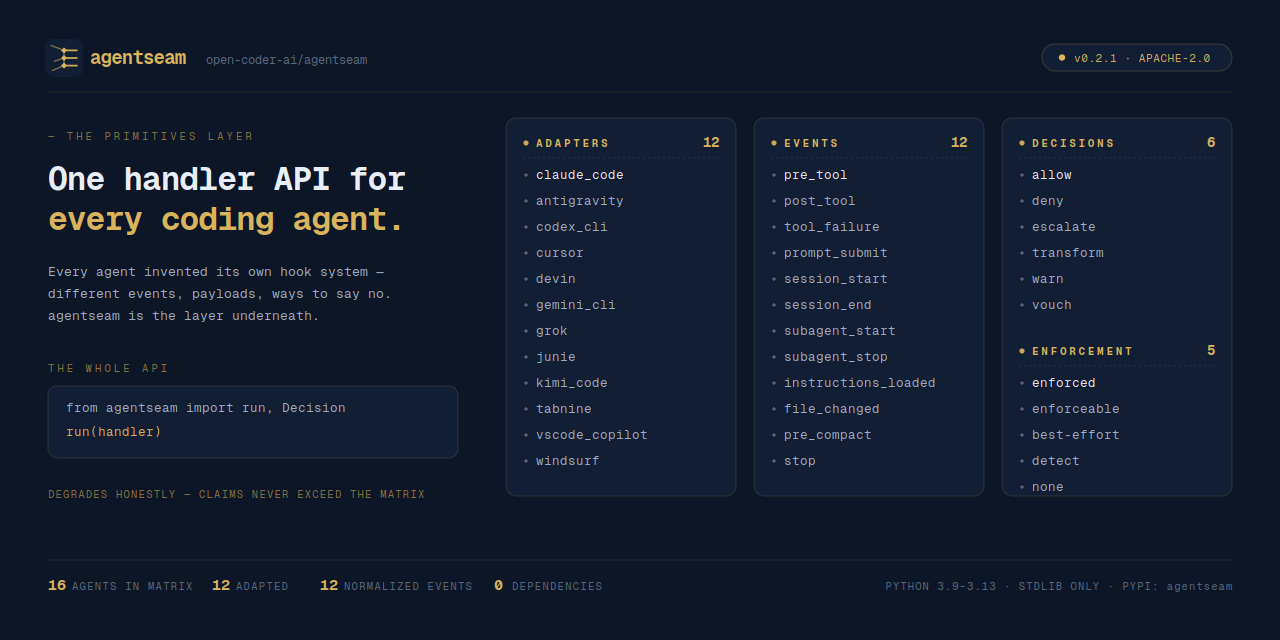
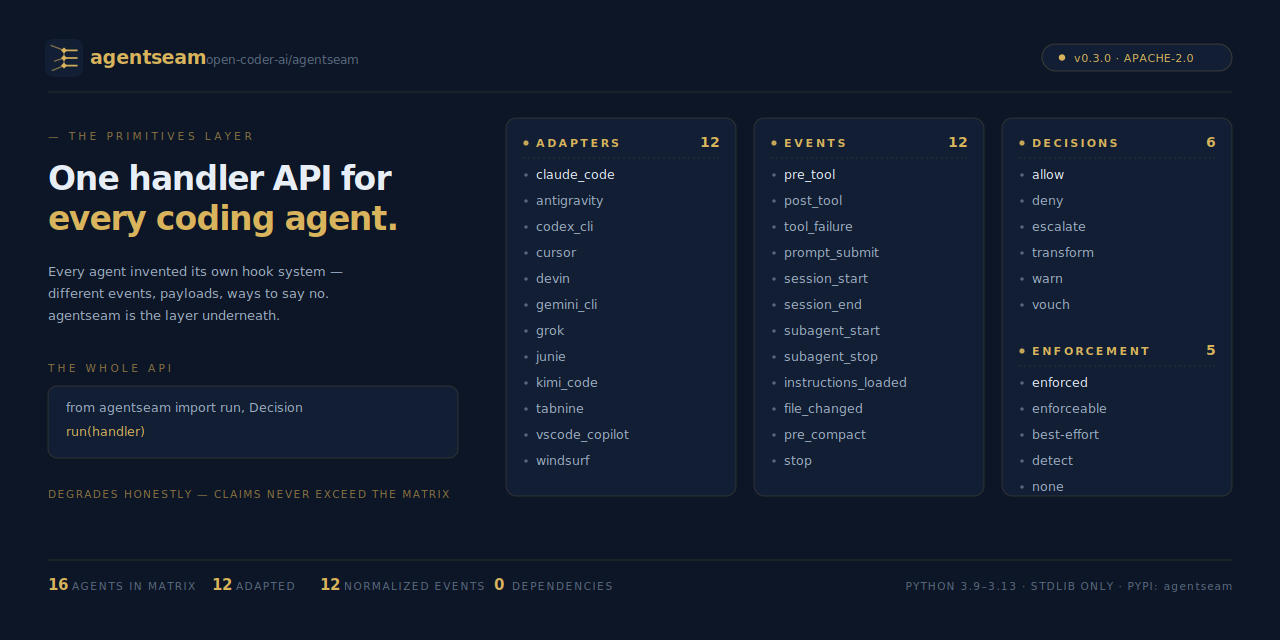
Release 0.3.0
Everything under [Unreleased] since v0.2.1, rolled into a dated section: the witnessed
claude_code prompt_submit and stop cells at 2.1.263, the recorded driver that freezes a
witnessed run and replays it in CI, per-claim evidence on the capability matrix with
grading capped by basis, the escalate trial, the Cursor, Kimi Code, Devin and Grok adapter
fixes, and the README, demo-gif and quickstart CI work. New package modules and new
package data, so a minor bump under semver.

Version is declared in three places and all three move together: pyproject.toml,
src/agentseam/__init__.py, and CITATION.cff, which tests/test_repo_standards.py holds
equal to the package. The changelog's compare links had stopped at 0.1.1; the 0.2.0,
0.2.1 and 0.3.0 links are added and [Unreleased] now compares against v0.3.0.

docs/assets/social-preview.{svg,png} are regenerated, not edited: the card renders the
version, and the brand-assets check would have failed on the stale one.

No behaviour change in this commit. The tag that publishes it follows the merge.

diff --git a/src/agentseam/__init__.py b/src/agentseam/__init__.py
@@ -1,6 +1,6 @@
 """agentseam — the primitives layer for every coding agent."""
 
-__version__ = "0.2.1"
+__version__ = "0.3.0"
 
 from . import adapters, bundler, instructions, packaging, permissions
 from .contract import (

diff --git a/CHANGELOG.md b/CHANGELOG.md
@@ -6,6 +6,8 @@ versioning: [Semantic Versioning](https://semver.org/spec/v2.0.0.html).
 
 ## [Unreleased]
 
+## [0.3.0] - 2026-09-20
+
 ### Docs
 - **README rewritten to lead with the hero demo GIF and the honest capability matrix**,
   ahead of the pitch copy. Adds a hero GIF (`docs/assets/demo.tape`, rendered by the new
@@ -1601,6 +1603,9 @@ versioning: [Semantic Versioning](https://semver.org/spec/v2.0.0.html).
   surfaces read content bytes (see above). A consumer needing content-based denial today
   should use a hook (`agentseam.install`/`dispatch`), not `permissions.plan()`.
 
-[Unreleased]: https://github.com/open-coder-ai/agentseam/compare/v0.1.1...HEAD
+[Unreleased]: https://github.com/open-coder-ai/agentseam/compare/v0.3.0...HEAD
+[0.3.0]: https://github.com/open-coder-ai/agentseam/compare/v0.2.1...v0.3.0
+[0.2.1]: https://github.com/open-coder-ai/agentseam/compare/v0.2.0...v0.2.1
+[0.2.0]: https://github.com/open-coder-ai/agentseam/compare/v0.1.1...v0.2.0
 [0.1.1]: https://github.com/open-coder-ai/agentseam/compare/v0.1.0...v0.1.1
 [0.1.0]: https://github.com/open-coder-ai/agentseam/releases/tag/v0.1.0
